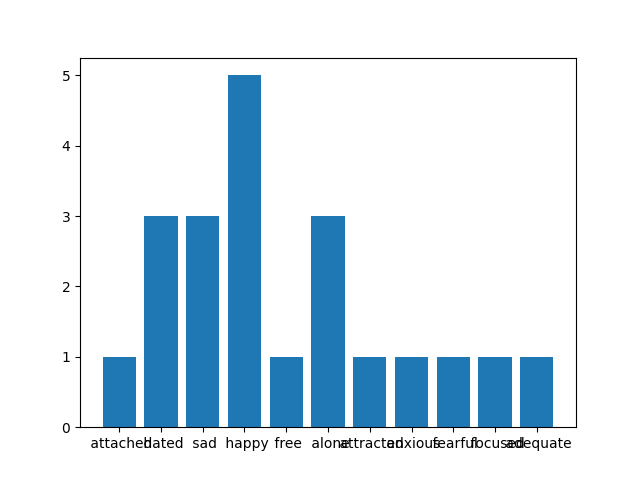
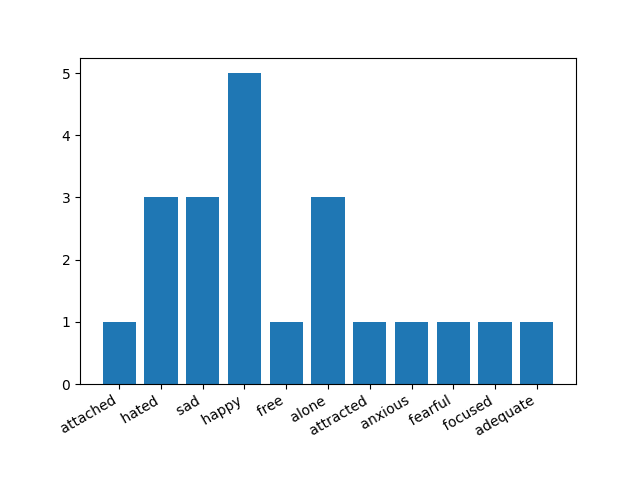
tilted the x axis properly

diff --git a/main.py b/main.py
@@ -49,6 +49,9 @@ print(emotion_list)
 w = Counter(emotion_list)
 print(w)
 
-plt.bar(w.keys(), w.values())
+
+fig, ax1 = plt.subplots()
+ax1.bar(w.keys(), w.values())
+fig.autofmt_xdate()
 plt.savefig('graph.png')
 plt.show()
